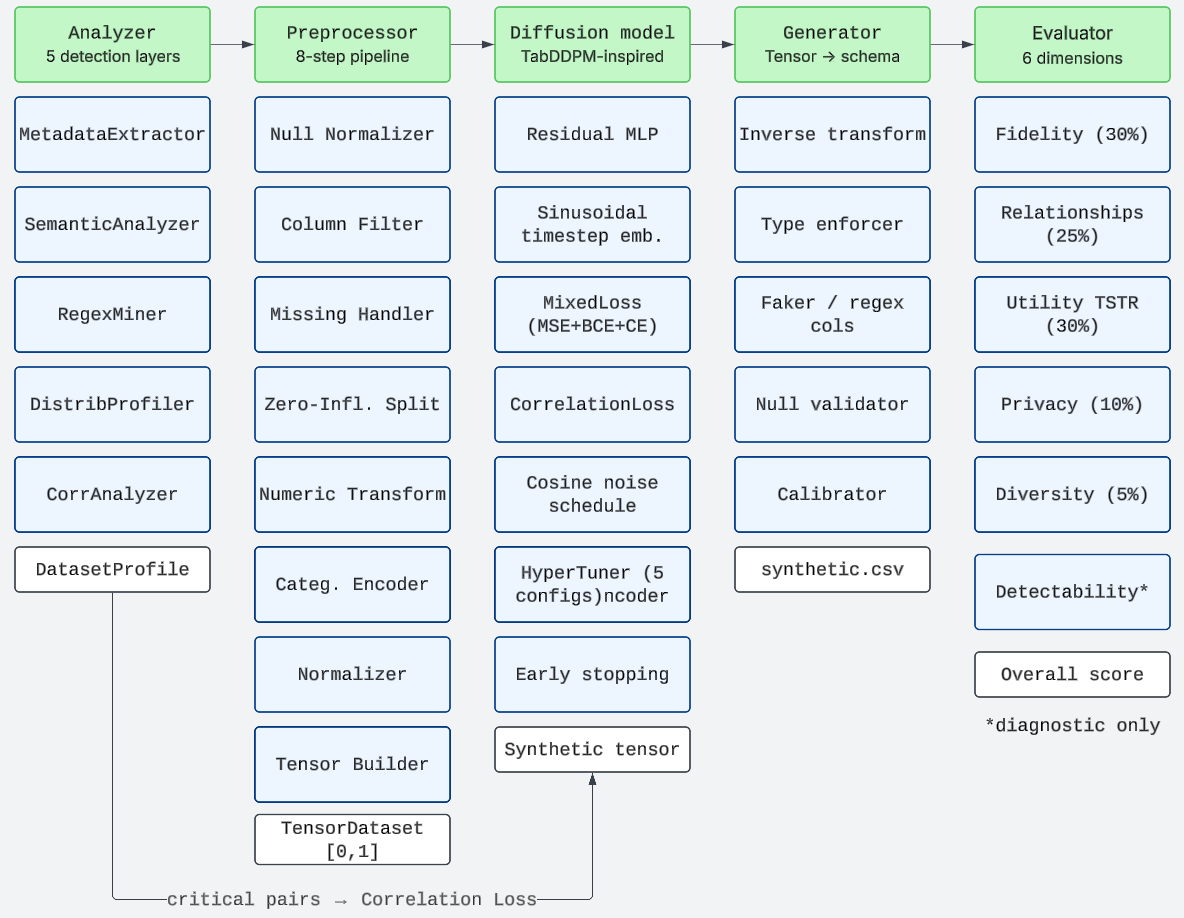
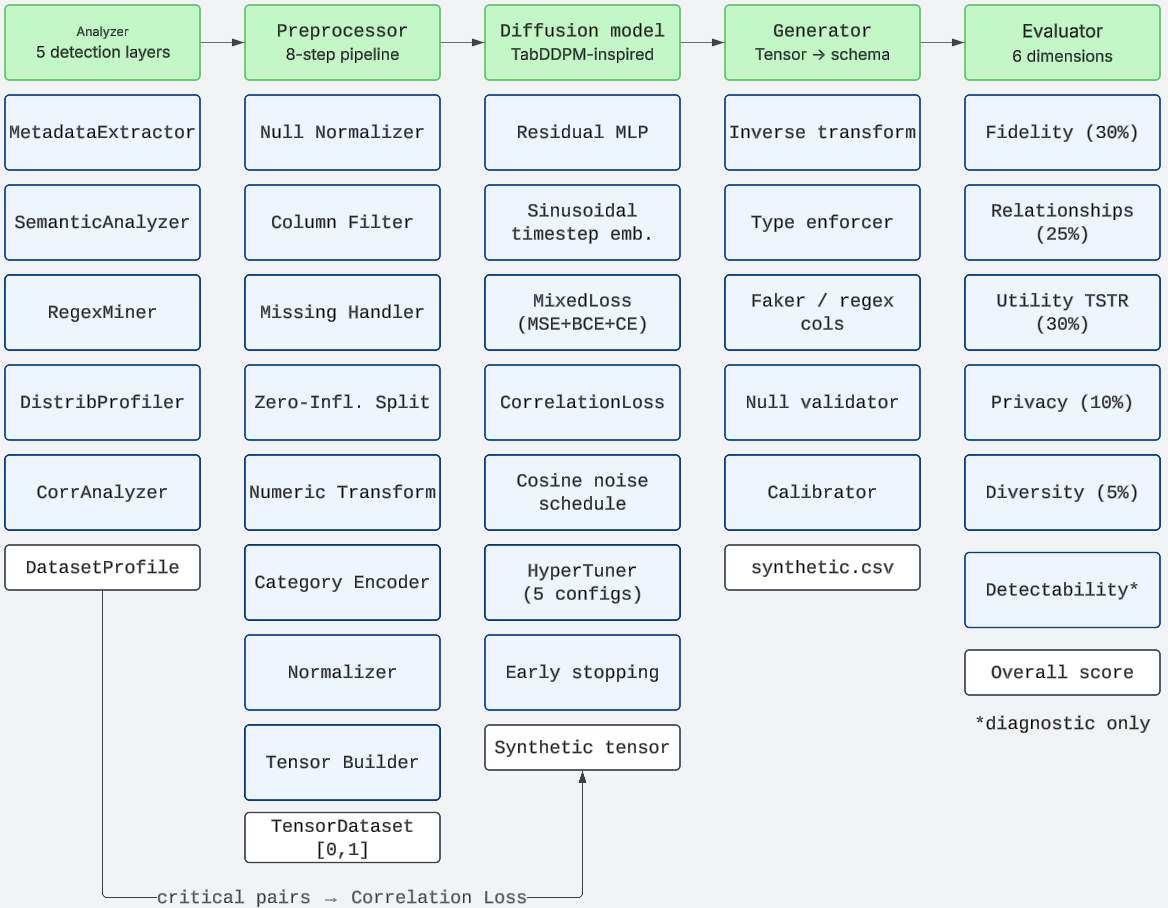
feat: diagram updated

Changed region(s): [[0.0, 0.0, 0.6164, 1.0], [0.6164, 0.0, 1.0, 0.8018], [0.1849, 0.7093, 0.2158, 0.7709]]

diff --git a/src/main.py b/src/main.py
@@ -14,24 +14,12 @@ import random
 
 load_dotenv()
 
-# ── Dataset selection — change only this line ─────────────────────────────
+# ── Global configuration ──────────────────────────────────────────────────
 DATASET = "titanic.csv"
-# DATASET = "plane.csv"
-# DATASET = "diamonds.csv"
-# DATASET = "social_media.csv"
-# DATASET = "housing.csv"
+SEED    = 12
 
-# ── Semillas por dataset (encontradas con find_best_seed) ─────────────────
-SEEDS = {
-    "titanic.csv"      : 12,
-    "plane.csv"        : 12,
-    "diamonds.csv"     : 42,   # pendiente — actualizar tras find_best_seed
-    "social_media.csv" : 42,   # pendiente — actualizar tras find_best_seed
-    "housing.csv"      : 12,   # pendiente — actualizar tras find_best_seed
-}
-
-SEED = SEEDS.get(DATASET, 42)
-print(f"Seed: {SEED} (dataset: {DATASET})")
+# ── Fix random seeds for reproducibility ─────────────────────────────────
+print(f"Seed: {SEED} | Dataset: {DATASET}")
 
 torch.manual_seed(SEED)
 np.random.seed(SEED)
@@ -53,18 +41,13 @@ def prepare_dataset(name: str) -> tuple[pd.DataFrame, str]:
         df = df.drop(columns=[c for c in drop_cols if c in df.columns])
         target = "all_perished"
 
-    elif name == "diamonds.csv":
-        target = "price"
-
-    elif name == "social_media.csv":
-        target = "addicted_score"
-
     elif name == "housing.csv":
         target = "median_house_value"
 
     else:
+        # Unknown dataset — fall back to last column as target
         target = df.columns[-1]
-        print(f"  Warning — unknown dataset, using '{target}' as target_col")
+        print(f"  Warning — unknown dataset, using '{target}' as target_col, for evaluation phase.")
 
     return df, target
 
@@ -73,23 +56,24 @@ df, target_col = prepare_dataset(DATASET)
 print(f"\nDataset : {DATASET}  ({df.shape[0]} rows x {df.shape[1]} columns)")
 print(f"Target  : {target_col}\n")
 
-# ── Phase 1 ───────────────────────────────────────────────────────────────
+# ── Phase 1 — Dataset analysis ────────────────────────────────────────────
 profile = DatasetAnalyzer(df, openai_api_key=os.getenv("OPENAI_API_KEY")).analyze()
 
-# ── Phase 2 ───────────────────────────────────────────────────────────────
+# ── Phase 2 — Preprocessing ───────────────────────────────────────────────
 prep   = Preprocessor(df, profile)
 output = prep.fit_transform()
 
-# ── Phase 3 ───────────────────────────────────────────────────────────────
+# ── Phase 3 — Diffusion model training & generation ───────────────────────
 model = TabDDPM.from_preprocessor(output, profile=profile)
 model.summary()
 model.auto_tune(output.tensor_dataset)
 synthetic_tensor = model.generate(n_samples=len(df))
 
-# ── Phase 4 ───────────────────────────────────────────────────────────────
+# ── Phase 4 — Post-processing & inverse transform ─────────────────────────
 gen    = Generator(profile, output, df)
 result = gen.generate(synthetic_tensor, prep)
 
+# Calibrate zero-inflated columns to match original null/zero distribution
 zero_inflated_originals = set(output.zero_inflated_map.values())
 calibrator = Calibrator(real_df=df, zero_inflated=zero_inflated_originals)
 result.synthetic_df = calibrator.transform(result.synthetic_df)
@@ -100,11 +84,12 @@ print(f"Synthetic shape : {result.synthetic_df.shape}")
 print(f"Columns match   : {result.columns_match}")
 print(f"Dtypes match    : {result.dtypes_match}")
 
+# Save synthetic dataset to disk
 os.makedirs("../output", exist_ok=True)
 result.synthetic_df.to_csv("../output/synthetic.csv", index=False)
 print(f"\nSaved -> ../output/synthetic.csv")
 
-# ── Phase 5 ───────────────────────────────────────────────────────────────
+# ── Phase 5 — Evaluation ──────────────────────────────────────────────────
 evaluator   = Evaluator()
 eval_result = evaluator.evaluate(
     real_df    = df,
@@ -116,7 +101,7 @@ eval_result = evaluator.evaluate(
 evaluator.report(eval_result)
 evaluator.save_report(eval_result, "../output/evaluation_report.txt")
 
-# ── Save model ────────────────────────────────────────────────────────────
+# ── Save model checkpoint ─────────────────────────────────────────────────
 os.makedirs("models", exist_ok=True)
-model.save(f"models/tabddpm_{DATASET.replace('.csv','')}_seed{SEED}.pt")
-print(f"Model saved to: models/tabddpm_{DATASET.replace('.csv','')}_seed{SEED}.pt")
+model.save(f"models/tabddpm_{DATASET.replace('.csv', '')}_seed{SEED}.pt")
+print(f"Model saved to: models/tabddpm_{DATASET.replace('.csv', '')}_seed{SEED}.pt")
